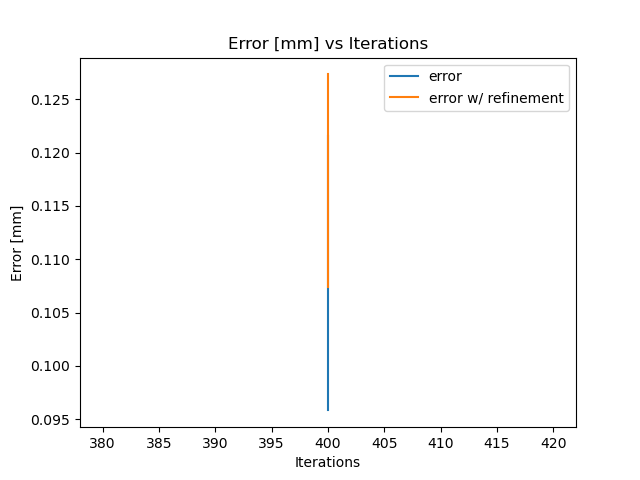
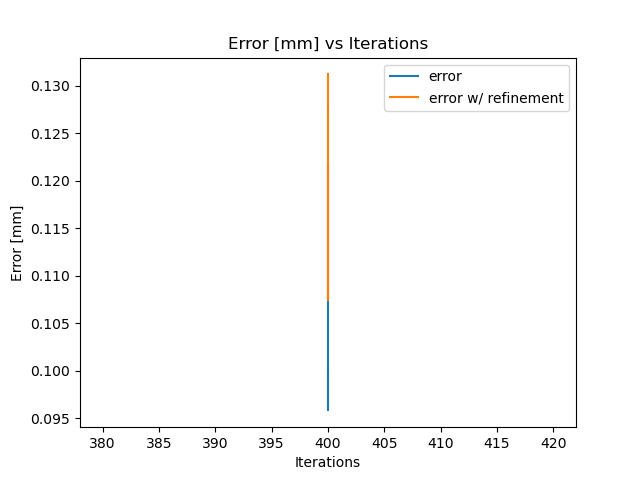
Update RANSAC refinement parameters

diff --git a/ransac.py b/ransac.py
@@ -70,7 +70,10 @@ def random_center_est(xyz, radial_list, epsilon, iterations=25):
 
 # Iterate through all the data points and accumulate inliers
 @njit(parallel=True)
-def accumulate_inliers(xyz, radial_list, iterations, best_vote, epsilon):
+def accumulate_inliers(xyz, radial_list, iterations, best_vote, epsilon, early_stop=None):
+
+    if early_stop is None:
+        early_stop = iterations
 
     xyz_inliers = np.zeros((iterations, 3))  
     radial_list_inliers = np.zeros(iterations)
@@ -80,6 +83,8 @@ def accumulate_inliers(xyz, radial_list, iterations, best_vote, epsilon):
     np.random.shuffle(indexes)
 
     for itr in prange(iterations):
+        if inlier_count >= early_stop:
+            break
         i = indexes[itr]
         p = xyz[i]
         r = radial_list[i]
@@ -187,6 +192,13 @@ def random_center_est_and_inliers(xyz, radial_list, iterations, epsilon, debug=F
 
     return best_vote, best_inliers_xyz, best_inliers_radial
 
+def linear_least_squares(xyz, radial_list):
+    xyz_mm = xyz*1000
+    radial_list_mm = radial_list*100
+
+    x, y, z = center_est(xyz_mm, radial_list_mm)
+
+    return np.array([x, y, z])
 
 def RANSAC(xyz, radial_list, iterations, epsilon):
     xyz_mm = xyz*1000
@@ -211,9 +223,14 @@ def RANSAC_refine(xyz, radial_list, iterations, epsilon):
 
     best_vote = random_center_est(xyz_mm, radial_list_mm, epsilon, iterations)
 
-    xyz_inliers, radial_list_inliers = accumulate_inliers(xyz_mm, radial_list_mm, len_xyz, best_vote, epsilon)
+    # if best_vote[0] == len_xyz:
+        # center = center_est(xyz_mm, radial_list_mm)
+        # center = np.array([center[0], center[1], center[2]])
+        # center = center.astype("float64")
+        # return center, len_xyz
 
-    
+    xyz_inliers, radial_list_inliers = accumulate_inliers(xyz_mm, radial_list_mm, len_xyz, best_vote, epsilon, early_stop=400)
+
     
     if len(xyz_inliers) >= 4:
         center = center_est(xyz_inliers, radial_list_inliers)

diff --git a/AccumulatorSpace.py b/AccumulatorSpace.py
@@ -19,12 +19,8 @@ import scipy
 
 lm_cls_names = ['ape', 'benchvise', 'cam', 'can', 'cat', 'duck', 'driller', 'eggbox', 'glue', 'holepuncher','iron','lamp','phone']
 
-
-#lm_cls_names = ['holepuncher','iron','lamp','phone']
-
-
-
 lmo_cls_names = ['ape', 'can', 'cat', 'duck', 'driller',  'eggbox', 'glue', 'holepuncher']
+
 ycb_cls_names={1:'002_master_chef_can',
            2:'003_cracker_box',
            3:'004_sugar_box',
@@ -1001,7 +997,7 @@ def estimate_6d_pose_lmo(opts):
                             if opts.frontend == 'accumulator_space':
                                 center_mm_s = Accumulator_3D(xyz, radial_list)[0]
                             if opts.frontend == 'RANSAC':
-                                center_mm_s, _ = RANSAC_refine(xyz, radial_list, 200, 0.14)
+                                center_mm_s, _ = RANSAC_refine(xyz, radial_list, 200, 0.04)
 
 
                             #pre_center_off_mm = math.inf
@@ -1014,8 +1010,12 @@ def estimate_6d_pose_lmo(opts):
                             center_off_mm = ((transformed_gt_center_mm[0]-estimated_center_mm[0])**2+
                                             (transformed_gt_center_mm[1]-estimated_center_mm[1])**2+
                                             (transformed_gt_center_mm[2]-estimated_center_mm[2])**2)**0.5
-                            
+                            if center_off_mm > 100000:
+                                print (filename)
+                                print (center_off_mm)
+                                wait = input("PRESS ENTER TO CONTINUE.")
                             offsets.append(center_off_mm)
+                            
 
                             estimated_kpts[keypoint_count-1] = estimated_center_mm
 
